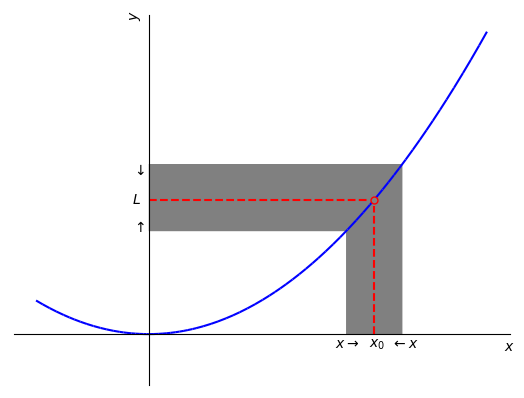
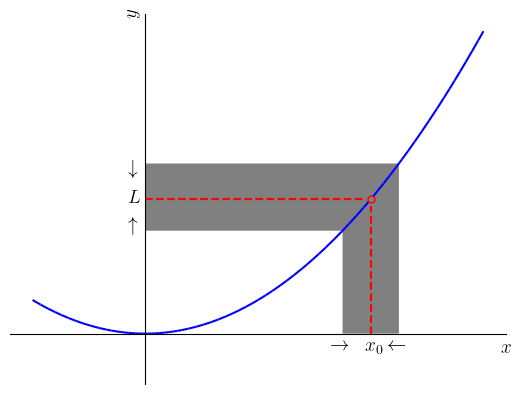
*: ajustes em figuras

diff --git a/src/CalculoI/cap_lim/dados/fig_lim/main.py b/src/CalculoI/cap_lim/dados/fig_lim/main.py
@@ -1,4 +1,12 @@
+import matplotlib as plt
 from sympy import *
+
+plt.rcParams.update({
+     "text.usetex": True,
+     "font.family": "serif",
+     "font.size": 14
+     })
+
 var('x,y', real=True)
 
 p = plot(x**2, (x,-1,3), line_color="blue", show=False)
@@ -7,10 +15,10 @@ p.extend(q)
 x0 = 2
 tol = 0.25
 q = plot_implicit(y<x**2,(x,x0-tol,x0+tol),(y,0,8),
-                  line_color="gray",show=False)
+                  line_color="grey",show=False)
 p.extend(q)
 q = plot_implicit(x<sqrt(y),(x,0,3),(y,(x0-tol)**2,(x0+tol)**2),
-                  line_color="gray",show=False)
+                  line_color="grey",show=False)
 p.extend(q)
 p.xlabel = '$x$'
 p.ylabel = '$y$'
@@ -21,13 +29,15 @@ ax = fig.axes[0]
 ax.set_yticks([])
 ax.set_xticks([])
 ax.grid()
-ax.text(x0-tol-0.1,-0.4,"$x\\rightarrow$")
-ax.text(x0+tol-0.1,-0.4,"$\\leftarrow x$")
+
+ax.text(x0-tol-0.1,-0.6,"$\\rightarrow$")
+ax.text(x0-0.05,-0.6,"$x_0$")
+ax.text(x0+tol-0.1,-0.6,"$\\leftarrow$")
+
 ax.plot([x0,x0],[0,x0**2-0.2],ls='--',color="red")
 ax.plot([0,x0-0.05],[x0**2,x0**2],ls='--',color="red")
-ax.text(x0-0.05,-0.4,"$x_0$")
 ax.text(-0.15,(x0-tol)**2,"$\\uparrow$")
 ax.text(-0.15,(x0+tol)**2-0.3,"$\\downarrow$")
 ax.text(-0.15,x0**2-0.1,"$L$")
 ax.plot([x0],[x0**2],marker="o",markersize=5,markeredgecolor="red",markerfacecolor="gray")
-fig.savefig('fig_lim.png', bbox_inches='tight')
+fig.savefig('fig_lim.png', bbox_inches='tight', transparent=True)

diff --git a/src/CalculoI/cap_int/dados/fig_soma_de_Riemann/main.py b/src/CalculoI/cap_int/dados/fig_soma_de_Riemann/main.py
@@ -1,10 +1,16 @@
 #!/bin/python3
-
-import numpy as np
+import matplotlib.pyplot as plt
 from sympy import *
+import numpy as np
 from sympy import plot_implicit
 import matplotlib.patches as patches
-init_printing()
+
+plt.rcParams.update({
+     "text.usetex": True,
+     "font.family": "serif",
+     "font.size": 14
+     })
+
 var('x,y',real=True)
 
 f = (x-0.5)**3 - 4*(x-0.5)**2 + 3*(x-0.5)+1 + 2.5
@@ -61,7 +67,7 @@ ax.text(xs-0.1,-0.75,"$x_n^*$")
 
 ax.text(3.25,2.5,"$y=f(x)$")
 
-fig.savefig('fig_soma_de_Riemann.png', bbox_inches="tight")
+fig.savefig('fig_soma_de_Riemann.png', bbox_inches="tight", transparent=True)
 
 
 

diff --git a/src/CalculoI/cap_deriv/dados/fig_retsectg/main.py b/src/CalculoI/cap_deriv/dados/fig_retsectg/main.py
@@ -1,4 +1,12 @@
+import matplotlib.pyplot as plt
 from sympy import *
+
+plt.rcParams.update({
+     "text.usetex": True,
+     "font.family": "serif",
+     "font.size": 14
+     })
+
 var('x',real=True)
 
 f=sin(x)
@@ -45,4 +53,4 @@ ax.text(x1-0.5,y1+0.2,'reta tangente',
         fontsize=12)
 ax.text(x1+0.5,y1+0.2,'reta secante',
         fontsize=12)
-fig.savefig('fig_retsectg.png', bbox_inches='tight')
+fig.savefig('fig_retsectg.png', bbox_inches='tight', transparent=True)
